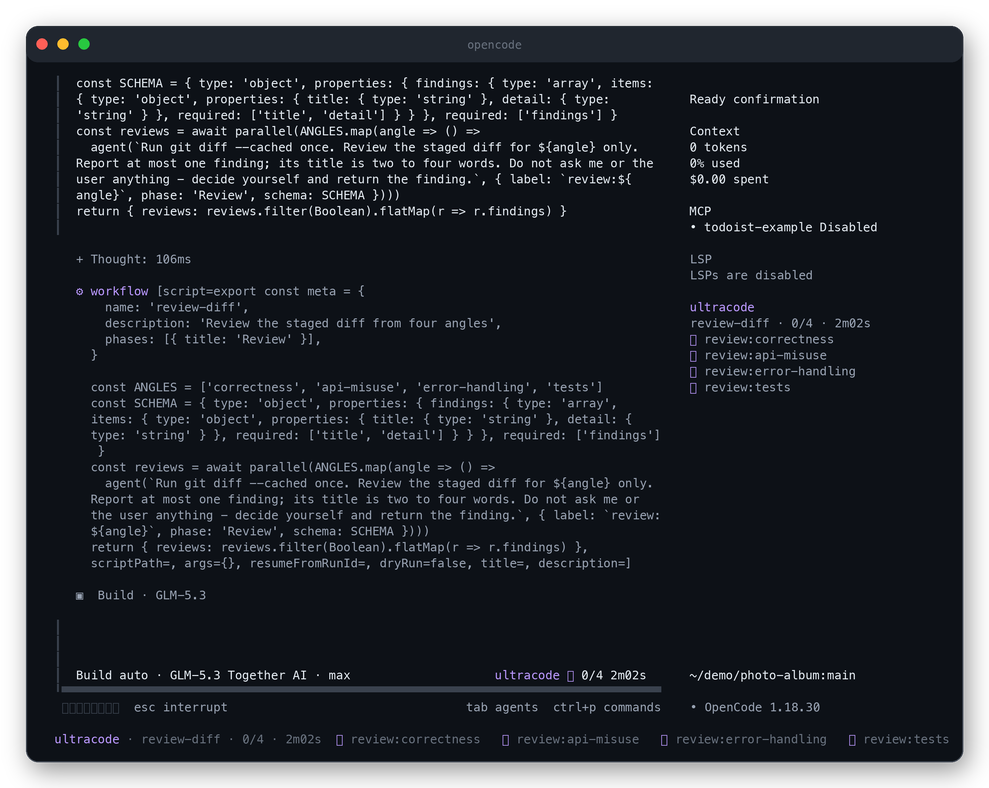
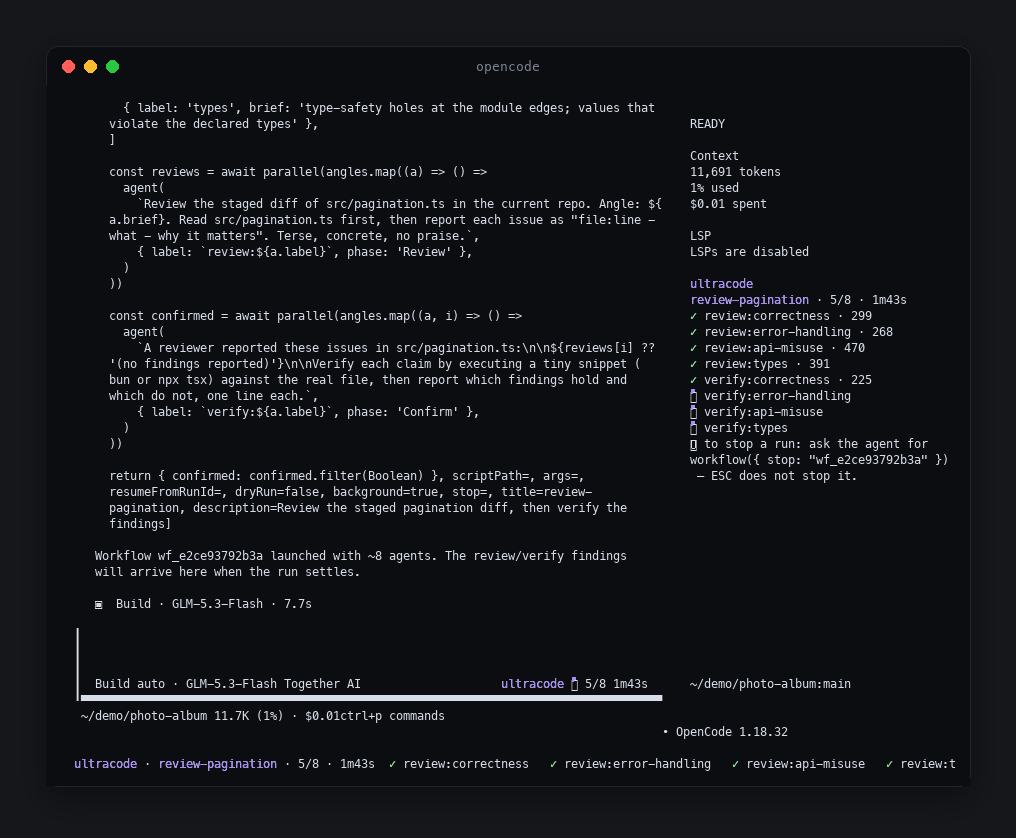
#14 e2e: parallel-notify + children-gone proofs; demo screenshots re-recorded on the background flow
- T10: both parallel runs must leave a synthetic workflow-completed part in
  the parent transcript, one per run id (scenario 2's second half).
- T6b: the stop's aborted children land in the journal (weather-aware) and
  the journal must go quiet after the unwind — no zombie child keeps working
  (scenario 3's 'children are gone').
- README screenshots re-recorded against the shipped background flow: the
  launch handle + fan-out start, sustained load with the verify wave live,
  the sidebar close-up (heading, summary, agent rows, stop hint), and the
  findings turn naming the planted off-by-one and the uncaught fetch.
  Same machinery as the e2e suites (real TUI in tmux, real model calls),
  re-themed in presentation only; throwaway scratch paths masked.
- Captions 1-2 retold to match what the frames now show (review then verify).

Changed region(s): [[0.0, 0.0, 1.0, 1.0], [0.6977, 0.7919, 0.8493, 0.8223]]

diff --git a/README.md b/README.md
@@ -50,8 +50,8 @@ return { confirmed: results.flat().filter(Boolean) }
 
 ## 🎬 What a run looks like
 
-Real captures from the live TUI (`bash test/e2e/visual.sh` — real opencode processes, real model
-calls), re-themed in presentation only.
+Real captures from the live TUI — the same machinery the e2e suites drive: real opencode
+processes, real model calls — re-themed in presentation only.
 
 **1. You hand the model the script; the engine fans out instantly.** The tool call returns at
 once with a `<workflow-launched>` handle — the run is executing in the background — and four
@@ -61,9 +61,10 @@ agent, the sidebar fills in, and `ultracode ⠋ 0/4` appears beside the input.
 
 ![Invoking a workflow](assets/screenshots/01-invoking.png)
 
-**2. The fan-out keeps working.** Two minutes later the same run is still going — four real
-review agents (real model calls, real file reads) with progress and elapsed time updating every
-second. You keep chatting; the run outlives the turn that launched it.
+**2. The run keeps working.** Two minutes in, the four reviewers have reported (green rows, token
+counts) and a second wave is verifying their findings by execution — real model calls, real file
+reads, progress and elapsed time updating every second. You keep chatting; the run outlives the
+turn that launched it.
 
 ![The fan-out mid-run](assets/screenshots/02-grinding.png)
 
